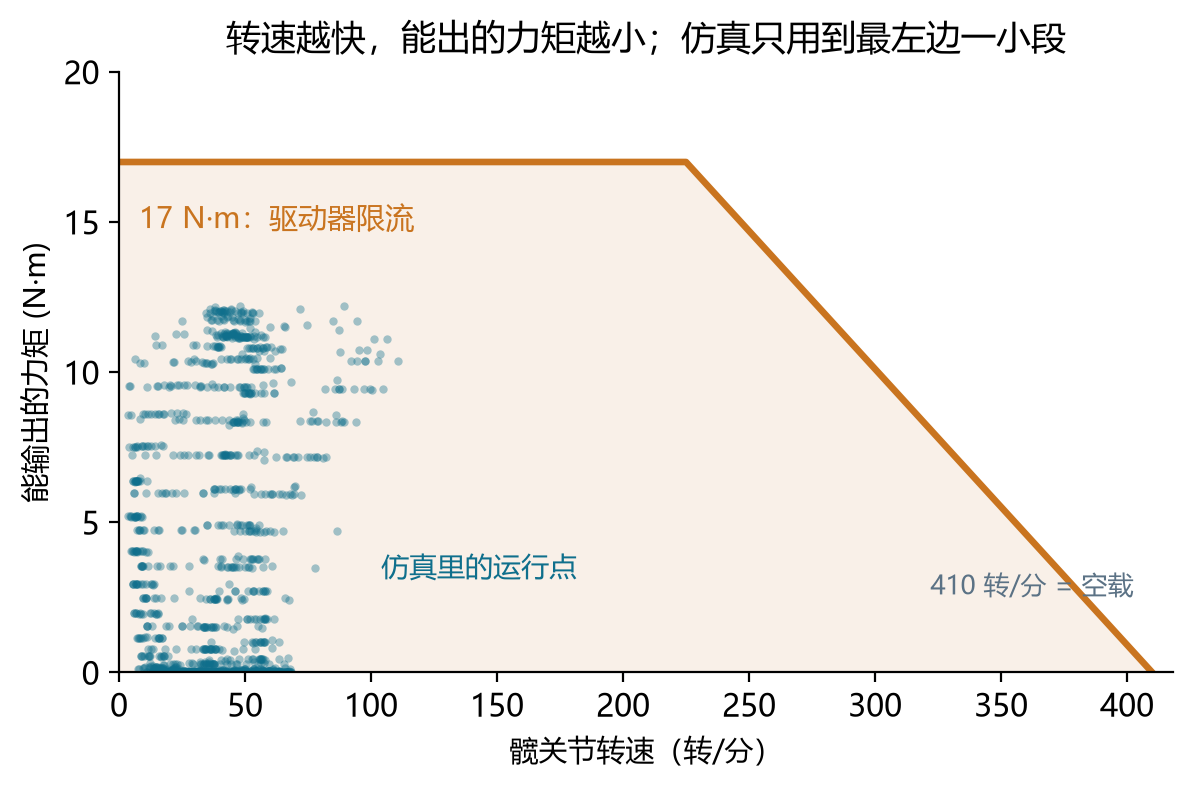
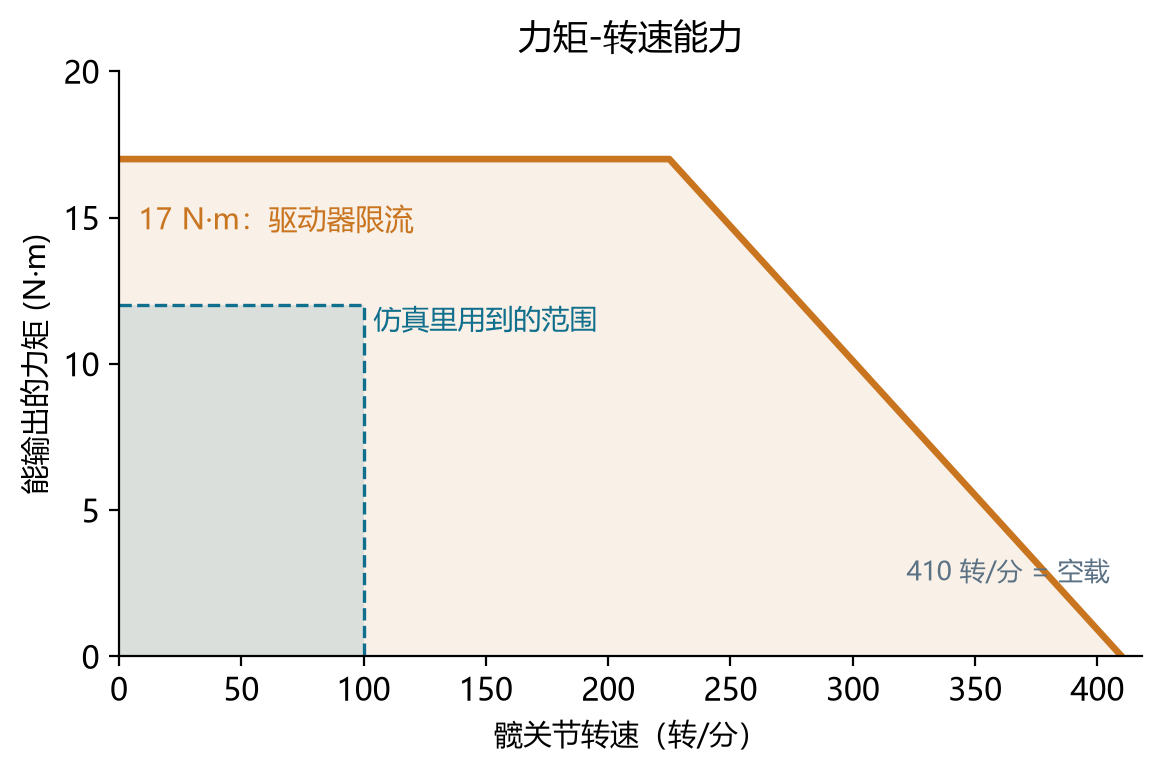
docs: 力矩-转速图去掉散点，小标题改成名词
散点太密，看不出东西。改成把仿真实际用到的范围画成一个虚线框（0–100 转/分、12 N·m 以内），
能力曲线仍然是一条，说明只保留两处。

三个小节标题从能出多大，到哪为止这类说法改成名词：力矩输出 / 力矩-转速能力 / 额定力矩；
图题同样改短。

diff --git a/README.md b/README.md
@@ -8,7 +8,7 @@
 写一个力矩常数。所以速度、电流上限、母线电压一变，能出的力矩也会跟着变。下面三张图讲这套驱动
 在仿真里的表现。
 
-## 一、力矩曲线：命令多少，就交出多少
+## 一、力矩输出
 
 <img src="docs/images/tor_curve.png" width="760" alt="一个步态周期的力矩、电流、电压">
 
@@ -18,15 +18,15 @@
 - **中间**：对应的电流，峰值 **10.9 A**，是驱动器上限 16 A 的 **67%**。
 - **下面**：端电压，峰值 **26.6 V**，只用了 48 V 电源的一半。
 
-## 二、能出多大，到哪为止
+## 二、力矩-转速能力
 
 <img src="docs/images/tor_envelope.png" width="700" alt="力矩-转速能力线">
 
 转速越快，能给的力矩越小。**17 N·m 这条平线是驱动器限流，不是电机本身的极限**——把电流限流拿掉，
-静止时它能出 37.7 N·m。仿真的运行点都挤在左下角（0–100 转/分、10 N·m 上下），离"高速出不了力"
+静止时它能出 37.7 N·m。仿真里只用到 0–100 转/分、12 N·m 以内那一块（图中虚线框），离"高速出不了力"
 那一端还很远，所以在这套仿真里限制力矩的是电流，不是转速。
 
-## 三、12 N·m 处在什么位置
+## 三、额定力矩
 
 <img src="docs/images/tor_rating.png" width="700" alt="12 N·m 与电机峰值、连续上限的关系">
 
